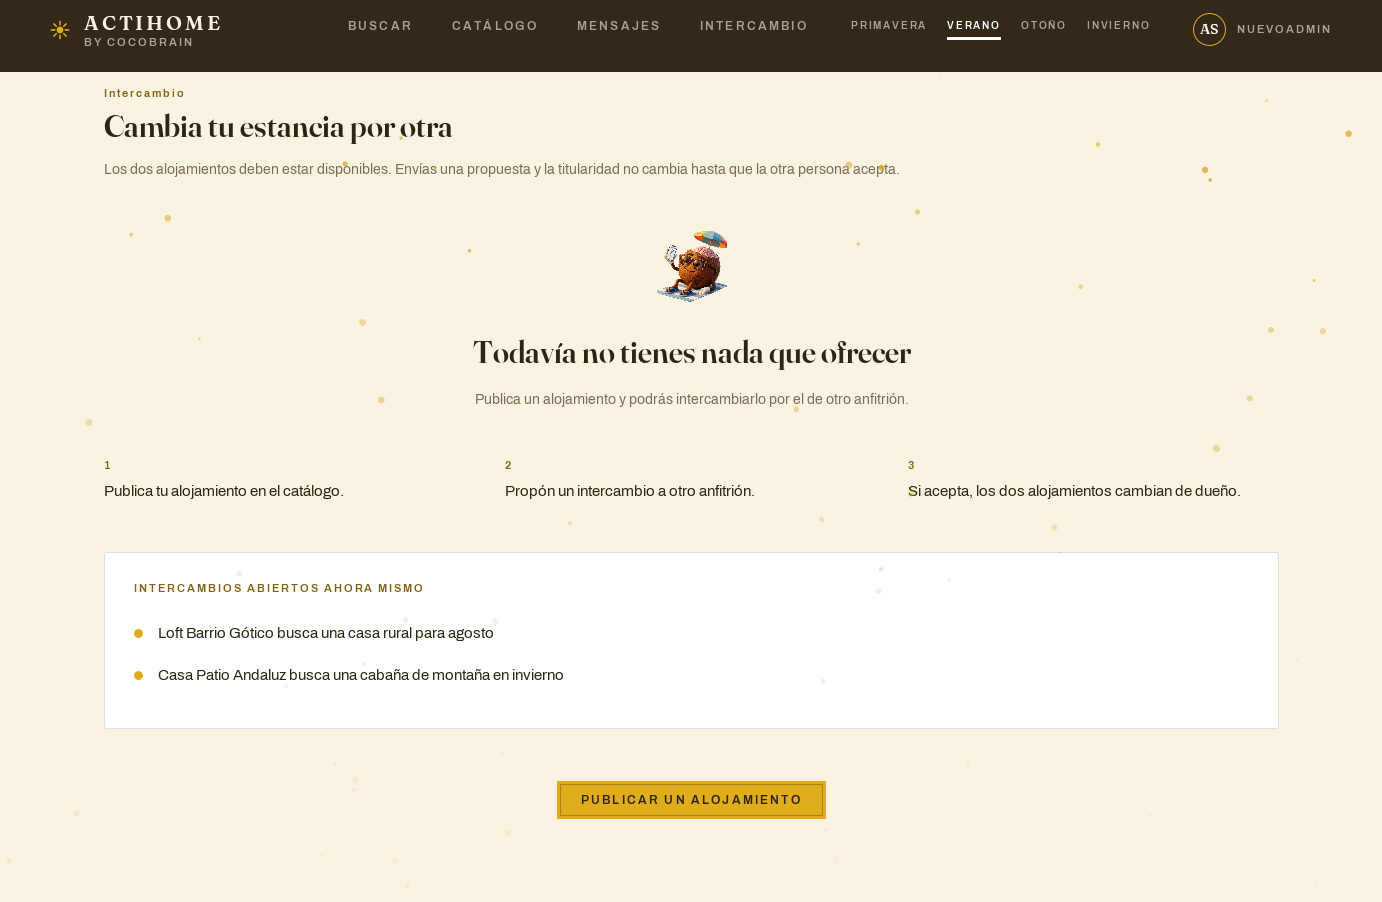
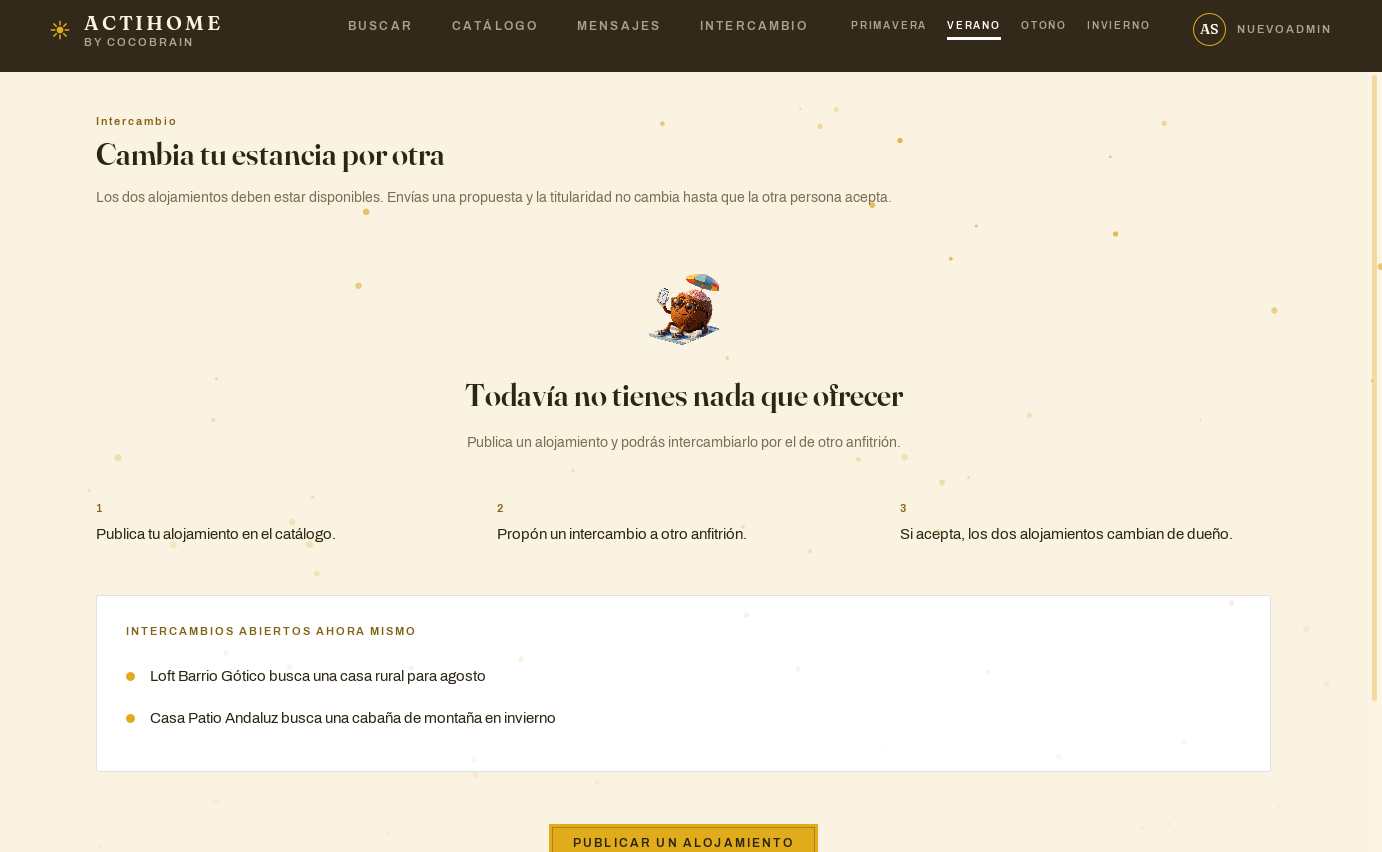
fix(intercambio): que la pantalla quepa entera en un portatil
Los botones de enviar quedaban por debajo del borde de la ventana: la
pantalla pedia 901 puntos de alto y un portatil de 1920x1080 al 150 %
entrega unos 624. Ahora pide 667.

Los codigos sugeridos se meten dentro de la tarjeta de "Recibes", que
estaba esperando un resultado con la mitad del hueco vacio: dejan de
costar los 68 puntos de su fila propia y quedan donde va a aparecer lo
que representan. Y las dos tarjetas de la comparacion pasan de vertical
a horizontal, foto al lado de los datos en vez de encima: apiladas, las
dos medidas se suman; al lado, manda la mayor. Es el reparto que ya usa
la fila del catalogo.

Eso destapo dos cosas que no molestaban mientras la tarjeta ocupaba todo
el ancho. Los textos de ayuda eran JLabel, que no parte el texto, y en
una columna estrecha su ancho minimo empujaba la tarjeta de al lado
fuera de la ventana; pasan a WrappingText. Y los chips iban uno por
linea, con el quinto dibujandose fuera de su propia tarjeta, asi que el
tope baja a cuatro: mejor un limite decidido que uno que aparece solo
segun el ancho.

172 tests, MedirResponsive sin recortes en tres pasadas.

diff --git a/src/main/java/fp/project/actihome/ui/TradeHousingsFrame.java b/src/main/java/fp/project/actihome/ui/TradeHousingsFrame.java
@@ -111,14 +111,33 @@ public class TradeHousingsFrame extends JFrame {
 	private static final String ALTO_DE_FOTO = "56:84:84";
 
 	/**
+	 * El ancho de esa misma foto, ahora que va al lado del texto y no encima.
+	 *
+	 * <p>
+	 * Rango y no número por lo de siempre: con la ventana estrecha, las dos
+	 * tarjetas comparten los 940 puntos de la zona de contenido y la foto cede
+	 * hasta 88 antes de que el texto de al lado empiece a apretarse.
+	 */
+	private static final String ANCHO_DE_FOTO = "88:132:132";
+
+	/**
 	 * Cuántos códigos se sugieren como mucho.
 	 *
 	 * <p>
-	 * Cinco es lo que cabe en una fila cómoda; enseñar el catálogo entero
-	 * convertiría una pista rápida en una segunda lista que hay que leer. Mismo
-	 * número y mismo motivo que las sugerencias de destino del buscador.
+	 * Enseñar el catálogo entero convertiría una pista rápida en una segunda lista
+	 * que hay que leer, así que hay un tope — el mismo criterio que las
+	 * sugerencias de destino del buscador, que usan cinco.
+	 *
+	 * <p>
+	 * <b>Aquí son cuatro y no cinco, y el motivo se vio en una captura.</b> Estos
+	 * chips viven dentro de la tarjeta de "Recibes", no en una fila a todo lo
+	 * ancho: en un portátil esa columna mide unos 390 puntos y cada chip ocupa su
+	 * propia línea, así que el quinto empujaba la comparación una línea más alta
+	 * — y la comparación es el bloque que decide si esta pantalla cabe. Cuatro
+	 * pistas y un botón visible valen más que cinco pistas y un botón fuera de la
+	 * ventana.
 	 */
-	private static final int SUGERENCIAS_DE_CODIGO = 5;
+	private static final int SUGERENCIAS_DE_CODIGO = 4;
 
 	private final transient HousingService housingService;
 	private final transient TradeProposalService tradeProposalService;
@@ -130,9 +149,9 @@ public class TradeHousingsFrame extends JFrame {
 	private transient Housing propio;
 	private transient Housing candidato;
 
-	private JPanel sugerencias;
+
 	private FilaFluida filaSugerencias;
-	private JLabel etiquetaSugerencias;
+
 	private JPanel propuestas;
 	private JPanel comparacion;
 	private JPanel vacio;
@@ -204,8 +223,8 @@ public class TradeHousingsFrame extends JFrame {
 				// el aire no da para más, se desborda hacia abajo y sale la barra de rescate
 				// — que es lo correcto: mejor desplazarse que leer un texto rebanado.
 				Space.margen(Space.XXL) + "[shrink 0]" + Space.aire(Space.LG) + "[shrink 0]" + Space.aire(Space.LG)
-						+ "[shrink 0]" + Space.aire(Space.MD) + "[shrink 0]" + Space.aire(Space.MD) + "[shrink 0]"
-						+ Space.aire(Space.XXL) + "[shrink 0]" + Space.margen(Space.XXL)));
+						+ "[shrink 0]" + Space.aire(Space.MD) + "[shrink 0]" + Space.aire(Space.LG) + "[shrink 0]"
+						+ Space.margen(Space.XXL)));
 		exterior.setOpaque(false);
 
 		buscador = buscador();
@@ -221,12 +240,6 @@ public class TradeHousingsFrame extends JFrame {
 		// roba sitio a nadie.
 		propuestas = propuestas();
 		exterior.add(propuestas, Layout.anchoCentrado(Layout.CONTENIDO));
-
-		// Las sugerencias van pegadas a la comparación, no al campo de código: lo que
-		// hacen es rellenar la tarjeta de "Recibes", y verlas justo encima de ella
-		// dice a qué hueco van sin necesidad de explicarlo.
-		sugerencias = sugerencias();
-		exterior.add(sugerencias, Layout.anchoCentrado(Layout.CONTENIDO));
 
 		comparacion = comparacion();
 		exterior.add(comparacion, Layout.anchoCentrado(Layout.CONTENIDO));
@@ -374,20 +387,6 @@ public class TradeHousingsFrame extends JFrame {
 	 * delante no es cosmético: cambia la probabilidad de que la propuesta llegue a
 	 * algo.
 	 */
-	private JPanel sugerencias() {
-
-		JPanel panel = new JPanel(new MigLayout("hidemode 3, " + Space.insets(0), "[]" + Space.SM + "[grow,fill]", "[]"));
-		panel.setOpaque(false);
-
-		etiquetaSugerencias = Labels.caps(Textos.t("intercambio.sugerencias"));
-		panel.add(etiquetaSugerencias, "aligny top, gaptop 6");
-
-		filaSugerencias = new FilaFluida(Space.XS, Space.XS);
-		panel.add(filaSugerencias, "growx");
-
-		return panel;
-	}
-
 	private void pintarSugerencias() {
 
 		filaSugerencias.removeAll();
@@ -395,7 +394,6 @@ public class TradeHousingsFrame extends JFrame {
 		User usuario = sessionManager.getLoggedInUser();
 
 		if (usuario == null) {
-			sugerencias.setVisible(false);
 			return;
 		}
 
@@ -407,8 +405,6 @@ public class TradeHousingsFrame extends JFrame {
 				.sorted(java.util.Comparator.comparing((Housing h) -> !h.isOpenToExchange()))
 				.limit(SUGERENCIAS_DE_CODIGO)
 				.toList();
-
-		sugerencias.setVisible(!candidatos.isEmpty());
 
 		for (Housing candidatoPosible : candidatos) {
 
@@ -428,6 +424,18 @@ public class TradeHousingsFrame extends JFrame {
 
 		filaSugerencias.revalidate();
 		filaSugerencias.repaint();
+
+		// Segundo pase, por lo mismo que el bloque de propuestas: una FilaFluida
+		// decide en cuántas líneas se reparte a partir del ancho que ya tiene, y
+		// recién construida dentro de una tarjeta cuyo ancho aún no se ha resuelto
+		// contesta de menos. Se vio en una captura a 1280×660: la tarjeta se quedaba
+		// con sitio para cuatro chips y el quinto no se pintaba — no cortado por la
+		// ventana, sino por su propia tarjeta, que es justo el punto ciego que
+		// MedirResponsive no cubre.
+		SwingUtilities.invokeLater(() -> {
+			panelCandidato.revalidate();
+			panelCandidato.repaint();
+		});
 	}
 
 	/**
@@ -583,7 +591,7 @@ public class TradeHousingsFrame extends JFrame {
 		tituloCabecera.setText(Textos.t("intercambio.titulo"));
 		subtituloCabecera.setText(Textos.t("intercambio.subtitulo"));
 		codigo.setEtiqueta(Textos.t("intercambio.codigo"));
-		etiquetaSugerencias.setText(Textos.t("intercambio.sugerencias"));
+
 		botonBuscar.setText(Textos.t("intercambio.buscar"));
 		confirmar.setText(Textos.t("intercambio.confirmar"));
 		botonCancelar.setText(Textos.t("ajustes.cancelar"));
@@ -673,7 +681,7 @@ public class TradeHousingsFrame extends JFrame {
 		comparacion.setVisible(!sinAlojamiento);
 		buscador.setVisible(!sinAlojamiento);
 		acciones.setVisible(!sinAlojamiento);
-		sugerencias.setVisible(!sinAlojamiento);
+
 		vacio.setVisible(sinAlojamiento);
 
 		// Las propuestas se pintan también sin alojamiento propio, y es a propósito:
@@ -873,7 +881,14 @@ public class TradeHousingsFrame extends JFrame {
 		panelCandidato.add(Labels.caps(Textos.t("intercambio.recibes")), "gapbottom " + Space.XS);
 
 		if (candidato == null) {
+
+			// Los chips se rellenan DESPUÉS de construir la tarjeta, porque es ella
+			// quien crea la fila que los aloja. Con candidato, esta tarjeta no se pinta
+			// y las sugerencias desaparecen con ella, que es lo que se quiere: ya no
+			// hay hueco que rellenar.
 			panelCandidato.add(tarjetaVacia(), "growx");
+			pintarSugerencias();
+
 		} else {
 			panelCandidato.add(tarjeta(candidato), "growx");
 		}
@@ -886,44 +901,104 @@ public class TradeHousingsFrame extends JFrame {
 		confirmar.setEnabled(candidato != null);
 	}
 
+	/**
+	 * Una de las dos tarjetas de la comparación: foto a la izquierda, datos a la
+	 * derecha.
+	 *
+	 * <p>
+	 * <b>Era vertical —foto arriba, texto debajo— y eso es lo que sacaba el botón
+	 * de enviar fuera de la pantalla en un portátil.</b> Apiladas, las dos medidas
+	 * se suman: 84 puntos de foto más unos 120 de texto son 204 por tarjeta, y la
+	 * comparación es el bloque más alto de la pantalla. En horizontal la altura es
+	 * <em>el mayor de los dos</em>, no su suma, y el ancho sobra: la pantalla tiene
+	 * 940 puntos y cada tarjeta ocupa la mitad.
+	 *
+	 * <p>
+	 * No es un apaño de última hora, es el mismo reparto que ya usa
+	 * {@code HousingRow} en la vista de lista del catálogo, y por el mismo motivo.
+	 * <b>La lección general:</b> cuando falta alto y sobra ancho, mirar qué hay
+	 * apilado que podría ir al lado — sumar dos medidas siempre cuesta más que
+	 * quedarse con la mayor.
+	 */
 	private Card tarjeta(Housing housing) {
 
-		Card card = new Card(new MigLayout("wrap 1, " + Space.insets(Space.MD), "[grow,fill]", ""));
+		Card card = new Card(new MigLayout(Space.insets(Space.MD), "[]" + Space.MD + "[grow,fill]", "[]"));
 		boolean disponible = housingService.isAvailableNow(housing.getId());
 
 		card.add(new ImagePlaceholder(Textos.tipoDeAlojamiento(housing.getType()),
 				disponible ? Textos.t("catalogo.disponibilidad.disponible") : Textos.t("catalogo.disponibilidad.reservada"),
-				disponible, housing.getImage()), "h " + ALTO_DE_FOTO + ", growx, gapbottom " + Space.aire(Space.SM));
+				disponible, housing.getImage()), "w " + ANCHO_DE_FOTO + ", h " + ALTO_DE_FOTO + ", aligny top");
 
-		card.add(Labels.capsAccent(Textos.t("catalogo.numero") + " " + housing.getHousingCode()));
+		JPanel datos = new JPanel(new MigLayout("wrap 1, " + Space.insets(0), "[grow,fill]", ""));
+		datos.setOpaque(false);
+
+		datos.add(Labels.capsAccent(Textos.t("catalogo.numero") + " " + housing.getHousingCode()));
 
 		JLabel nombre = Labels.cardTitle(housing.getName());
 		nombre.setFont(Typography.serifMedium(Typography.CARD_TITLE));
-		card.add(nombre, "gaptop " + Space.XXS);
+		datos.add(nombre, "gaptop " + Space.XXS);
 
-		card.add(Labels.muted(housing.getLocation()), "gaptop " + Space.XXS);
-		card.add(Labels.muted(Textos.t("intercambio.titular", housing.getOwner().getUsername())),
+		datos.add(Labels.muted(housing.getLocation()), "gaptop " + Space.XXS);
+		datos.add(Labels.muted(Textos.t("intercambio.titular", housing.getOwner().getUsername())),
 				"gaptop " + Space.XXS);
-		card.add(Labels.priceSmall(Textos.t("intercambio.precioPorNoche", Formato.precio(housing.getPricePerNight()))),
+		datos.add(Labels.priceSmall(Textos.t("intercambio.precioPorNoche", Formato.precio(housing.getPricePerNight()))),
 				"gaptop " + Space.aire(Space.XS));
 
 		if (!disponible) {
 			// Es la causa exacta por la que el servicio rechazaría el intercambio, dicha
 			// antes de intentarlo.
-			card.add(Labels.error(Textos.t("intercambio.error.reservadoNoIntercambiable")),
+			datos.add(Labels.error(Textos.t("intercambio.error.reservadoNoIntercambiable")),
 					"gaptop " + Space.aire(Space.XS));
 		}
+
+		card.add(datos, "aligny top");
 
 		return card;
 	}
 
+	/**
+	 * El hueco de "Recibes" mientras no se ha buscado nada: el marcador de foto,
+	 * la explicación y <b>los códigos que se pueden pedir</b>.
+	 *
+	 * <p>
+	 * <b>Los chips vivían en una fila propia y se han movido aquí, por dos motivos
+	 * que apuntan en la misma dirección.</b> El de medida: esa fila costaba 68
+	 * puntos de alto —medidos con {@code MedirPantallas}— y era justo lo que sacaba
+	 * el botón de enviar fuera de la ventana en un portátil. Aquí no cuesta
+	 * ninguno: esta tarjeta ya ocupa el alto de la comparación y estaba medio
+	 * vacía.
+	 *
+	 * <p>
+	 * Y el de sentido, que es el bueno: <b>las sugerencias rellenan este hueco
+	 * exactamente</b>. Pulsar un chip sustituye la tarjeta vacía por el alojamiento
+	 * que representa, así que verlos dentro del sitio donde va a aparecer el
+	 * resultado dice lo que hacen sin necesidad de explicarlo — y desaparecen solos
+	 * en cuanto hay un candidato, porque entonces esta tarjeta ya no se pinta.
+	 */
 	private Card tarjetaVacia() {
 
-		Card card = new Card(new MigLayout("wrap 1, " + Space.insets(Space.MD), "[grow,fill]", ""));
+		Card card = new Card(new MigLayout(Space.insets(Space.MD), "[]" + Space.MD + "[grow,fill]", "[]"));
 
-		card.add(new ImagePlaceholder(), "h " + ALTO_DE_FOTO + ", growx, gapbottom " + Space.aire(Space.SM));
-		card.add(Labels.muted(Textos.t("intercambio.tarjetaVacia.linea1")), "gaptop " + Space.XXS);
-		card.add(Labels.muted(Textos.t("intercambio.tarjetaVacia.linea2")));
+		card.add(new ImagePlaceholder(), "w " + ANCHO_DE_FOTO + ", h " + ALTO_DE_FOTO + ", aligny top");
+
+		JPanel datos = new JPanel(new MigLayout("wrap 1, " + Space.insets(0), "[grow,fill]", ""));
+		datos.setOpaque(false);
+
+		// **WrappingText y no Labels.muted**, y el cambio es obligado desde que esta
+		// tarjeta reparte en dos columnas: un JLabel no parte el texto, así que
+		// declara la frase entera como ancho mínimo —313 puntos medidos— y en una
+		// columna de 336 eso empuja la tarjeta de al lado fuera de la ventana. Lo
+		// cazó MedirResponsive a 1024×600 en cuanto la tarjeta dejó de ocupar todo el
+		// ancho. Es la regla 5 de la adaptabilidad, incumplida sin querer al mover el
+		// texto a un sitio más estrecho: **un texto que antes cabía no es un texto
+		// que quepa.**
+		datos.add(WrappingText.muted(Textos.t("intercambio.tarjetaVacia.linea1") + " "
+				+ Textos.t("intercambio.tarjetaVacia.linea2")), "growx, wmin 0");
+
+		filaSugerencias = new FilaFluida(Space.XS, Space.XS);
+		datos.add(filaSugerencias, "growx, gaptop " + Space.aire(Space.SM));
+
+		card.add(datos, "aligny top");
 
 		return card;
 	}
